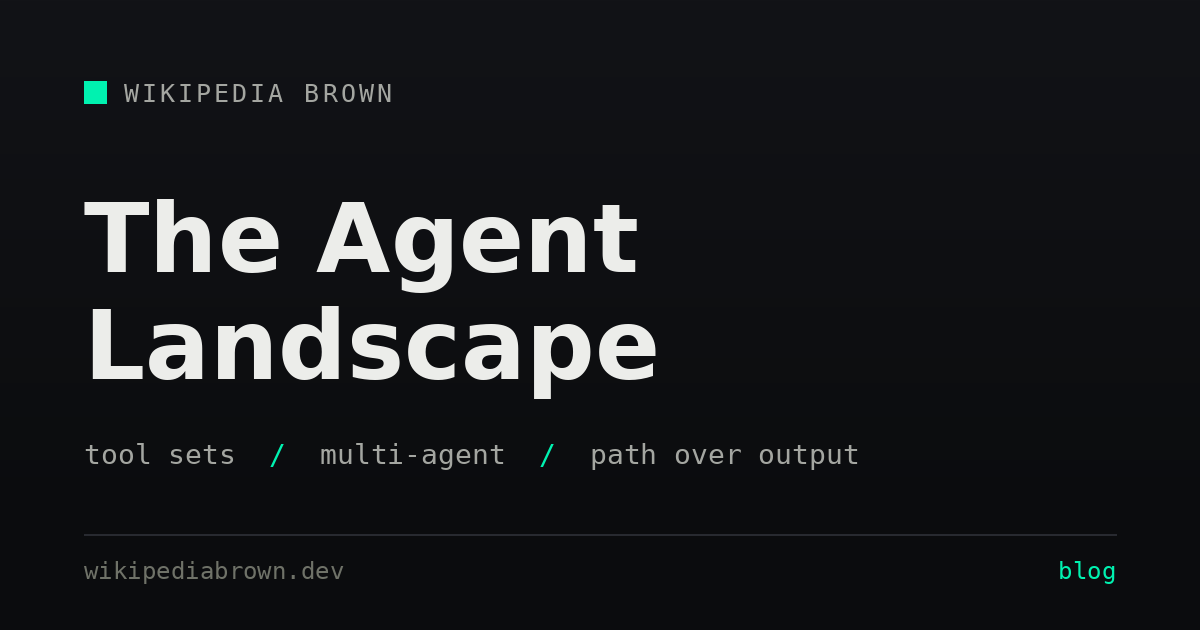
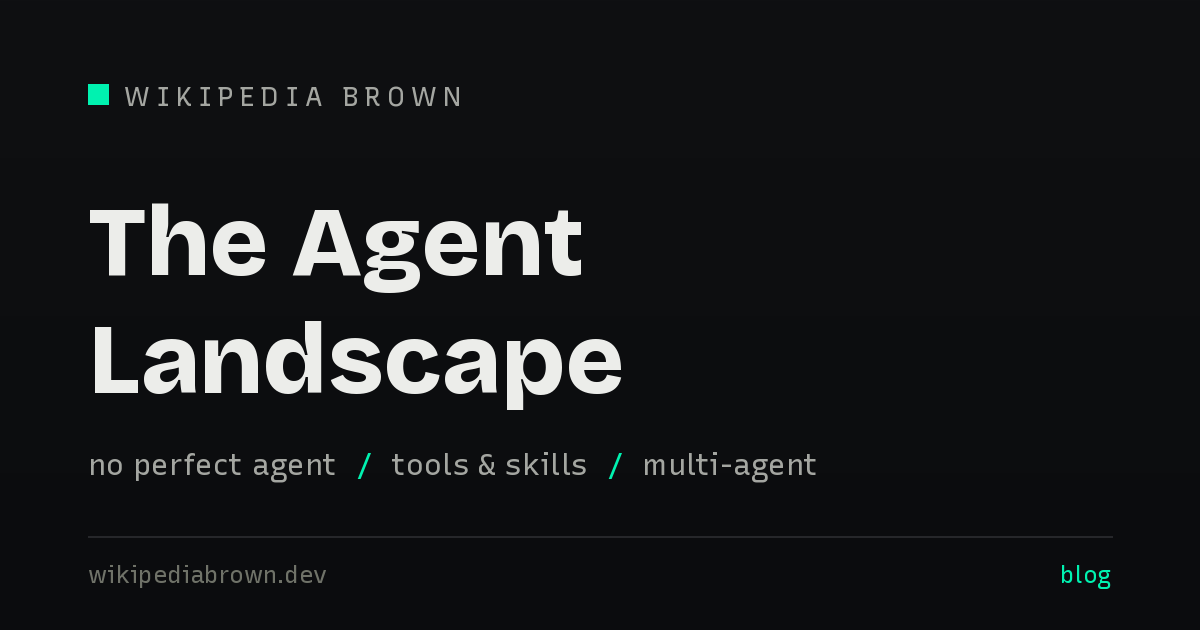
Split judging into its own post; add X brand assets (#42)
* Update hobbies to cookies and ice cream; reframe agent post around context management

Replace the 'loop' framing in the AI agent post with context
injection/management, and update the bio on the homepage, terminal
whoami, and llms.txt accordingly.

https://claude.ai/code/session_017TjKiC58g9shpReFHG7csj

* Remove self-reference to earlier loop framing

https://claude.ai/code/session_017TjKiC58g9shpReFHG7csj

* Fix token-reduction attribution and reference title accuracy

The 98.7% reduction in Anthropic's code-execution-with-MCP example
comes from both on-demand tool loading and keeping intermediate
results out of the context window, not on-demand loading alone.
Also match the cited article's actual title.

https://claude.ai/code/session_017TjKiC58g9shpReFHG7csj

* Rename custom code bullet to custom tool sets

https://claude.ai/code/session_017TjKiC58g9shpReFHG7csj

* Add A2A communication as a fourth tool flavor

https://claude.ai/code/session_017TjKiC58g9shpReFHG7csj

* Reword A2A bullet to avoid anthropomorphizing agents

https://claude.ai/code/session_017TjKiC58g9shpReFHG7csj

* Reframe coding-assistant example around bundled tools and context management

https://claude.ai/code/session_017TjKiC58g9shpReFHG7csj

* Fix overclaim in context management section opener

https://claude.ai/code/session_017TjKiC58g9shpReFHG7csj

* Cut filler opener from context management section

https://claude.ai/code/session_017TjKiC58g9shpReFHG7csj
[…]

diff --git a/docs/_posts/2026-06-19-the-agent-landscape.md b/docs/_posts/2026-06-19-the-agent-landscape.md
@@ -2,13 +2,13 @@
 layout: post
 title: The Agent Landscape
 date: 2026-06-19 12:00:00 -0000
-summary: 'A follow-up to "What an AI Agent Actually Is" — how the parts compose into single agents and into systems of agents, and why the most useful way to judge a non-deterministic agent is the path of tool calls it took, not the output it produced.'
-dek: 'A follow-up to ["What an AI Agent Actually Is"](/blog/what-an-ai-agent-actually-is/) — how the parts compose into single agents and into systems of agents, and why the most useful way to judge a non-deterministic agent is the path of tool calls it took, not the output it produced.'
-image: /img/posts/the-agent-landscape.png?v=1
-image_alt: "The Agent Landscape — tool sets, multi-agent systems, and the path over the output."
+summary: 'A follow-up to "What an AI Agent Actually Is" — how the parts compose into a single agent, how several agents compose into a system, and why your tool set is the part that''s actually yours.'
+dek: 'A follow-up to ["What an AI Agent Actually Is"](/blog/what-an-ai-agent-actually-is/) — how the parts compose into a single agent, how several agents compose into a system, and why your tool set is the part that''s actually yours.'
+image: /img/posts/the-agent-landscape.png?v=2
+image_alt: "The Agent Landscape — no perfect agent, tools and skills, and getting agents to work together."
 ---
 
-In [What an AI Agent Actually Is](/blog/what-an-ai-agent-actually-is/) I laid out the four parts an agent has: a driver, a tool set, an environment, and context management. That post was about naming the parts. This one is about what you do with them — how they compose into one agent, how several agents compose into a system, and how you'd actually tell whether any of it is doing its job.
+In [What an AI Agent Actually Is](/blog/what-an-ai-agent-actually-is/) I laid out the four parts an agent has: a driver, a tool set, an environment, and context management. That post was about naming the parts. This one is about what you do with them — how they compose into one agent, and how several agents compose into a system.
 
 ## There is no perfect agent
 
@@ -29,16 +29,6 @@ The question people actually want answered is how to make several agents work to
 The other axis is how they share state. You can give them a shared workspace — a file system they all read and write, which is just their memory held in common — and let them work the same problem in their own ways, all updating the same place. Or you can isolate them: each agent on a copy of the data, in its own container, its own Kubernetes pod, even its own AWS Nitro Enclave where you genuinely can't see in, all running the same task, with the outputs compared at the end.
 
 Agent-to-agent communication has its own protocol — Google's A2A, the complement to Anthropic's MCP: MCP standardizes how an agent reaches a tool, A2A how an agent reaches another agent. Mechanically, though, there's nothing new in it. An agent reaches another agent the same way it uses any tool: tokens interpreted as a call. Another agent is just a tool with its own driver behind it.
-
-## Judge the path, not the output
-
-Here's the part I think is underused.
-
-These are non-deterministic systems. Run the same agent on the same task a hundred times and you get a hundred slightly different outputs. Comparing those outputs means comparing noise, so people reach for ways to pin the system down — retrieval, scaffolding, "ours is more reliable than theirs." But the systems are non-deterministic, and that's fine. The mistake is judging them by the artifact at the end.
-
-An agent can only change the world through a tool call, and its state only moves when it makes one. So you can record something more stable than the output: the sequence of tool calls it made, and the state of the workspace at each one, tracked separately for every sub-agent. Because every state change is a tool call and every tool call is observable, that sequence is a complete snapshot of what the agent did, step by step.
-
-Say you ask an agent to write a newspaper article and run it a hundred times. Maybe seventy times it reads the workspace and then writes. Twenty-nine times it writes first and reads afterward to check for anything it missed. Once it asks a question and never finishes the run. You aren't measuring the article — the article varies every time. You're measuring how it works: the course of action it took, given that tool set, in that environment, under that context. That holds still even when the output doesn't, and it's the honest answer to "what did this thing actually do, and why," without pretending it was deterministic.
 
 ## References
 

diff --git a/docs/_posts/2026-06-19-judge-the-path-not-the-output.md b/docs/_posts/2026-06-19-judge-the-path-not-the-output.md
@@ -1,0 +1,25 @@
+---
+layout: post
+title: Judge the Path, Not the Output
+date: 2026-06-19 14:00:00 -0000
+summary: 'Agents are non-deterministic, so grading the artifact at the end means comparing noise. The thing that holds still is the path — the sequence of tool calls it made, and the state of the workspace at each one.'
+dek: 'A follow-up to ["The Agent Landscape"](/blog/the-agent-landscape/) — agents are non-deterministic, so grading the artifact at the end means comparing noise. The thing that holds still is the path: the sequence of tool calls it made, and the state of the workspace at each one.'
+image: /img/posts/judge-the-path-not-the-output.png?v=1
+image_alt: "Judge the Path, Not the Output — measuring an agent by its sequence of tool calls, not the artifact at the end."
+---
+
+The earlier posts were about what an agent is — a [driver, a tool set, an environment, and context management](/blog/what-an-ai-agent-actually-is/) — and [how those parts compose into systems](/blog/the-agent-landscape/). This one is about the question that comes after you've built the thing: how do you tell whether it's any good? The reflex is to grade the output — did it write a good article, did it close the ticket, did it pass the eval. That's the wrong place to look, and the reason is that agents aren't deterministic.
+
+Run the same agent on the same task a hundred times and you get a hundred slightly different outputs. Comparing those outputs means comparing noise, so people reach for ways to pin the system down — retrieval, scaffolding, "ours is more reliable than theirs." But the systems are non-deterministic, and that's fine. The mistake is judging them by the artifact at the end.
+
+An agent can only change the world through a tool call, and its state only moves when it makes one. So you can record something more stable than the output: the sequence of tool calls it made, and the state of the workspace at each one, tracked separately for every sub-agent. Because every state change is a tool call and every tool call is observable, that sequence is a complete snapshot of what the agent did, step by step.
+
+Say you ask an agent to write a newspaper article and run it a hundred times. Maybe seventy times it reads the workspace and then writes. Twenty-nine times it writes first and reads afterward to check for anything it missed. Once it asks a question and never finishes the run. You aren't measuring the article — the article varies every time. You're measuring how it works: the course of action it took, given that tool set, in that environment, under that context. That holds still even when the output doesn't, and it's the honest answer to "what did this thing actually do, and why," without pretending it was deterministic.
+
+None of this makes the output unimportant. You still ship the article, and it still has to be good. But the output is one sample from a distribution, and you can't learn much about a system by staring at a single sample. The path is the system. Watch the path and you can see what the agent does, where it goes wrong, and whether a change you made actually changed anything — none of which the artifact at the end will tell you.
+
+## References
+
+- Brown, Wikipedia. 2026. "What an AI Agent Actually Is." Wikipedia Brown. <https://wikipediabrown.dev/blog/what-an-ai-agent-actually-is/>.
+- Brown, Wikipedia. 2026. "The Agent Landscape." Wikipedia Brown. <https://wikipediabrown.dev/blog/the-agent-landscape/>.
+{:.refs}
